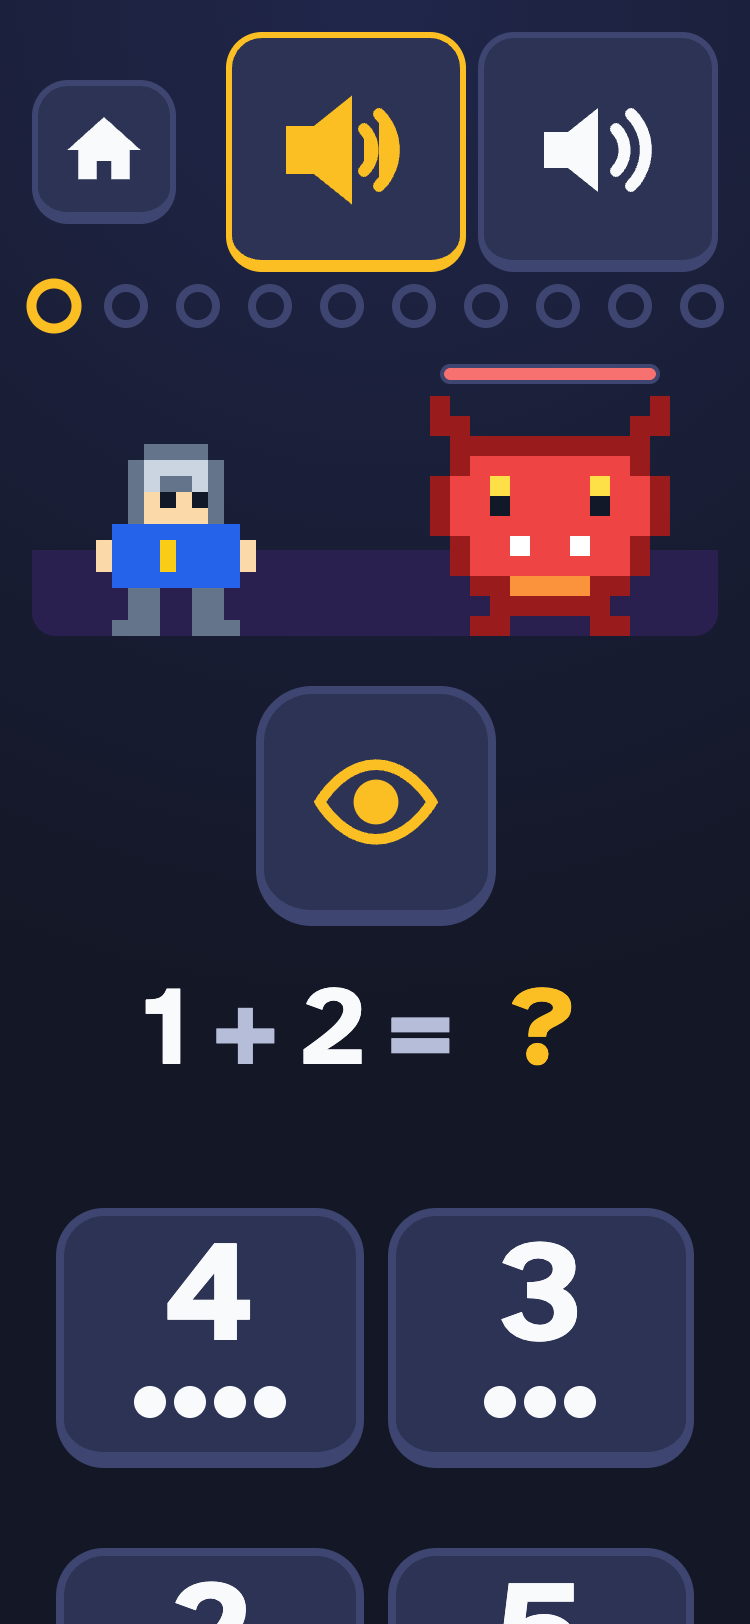
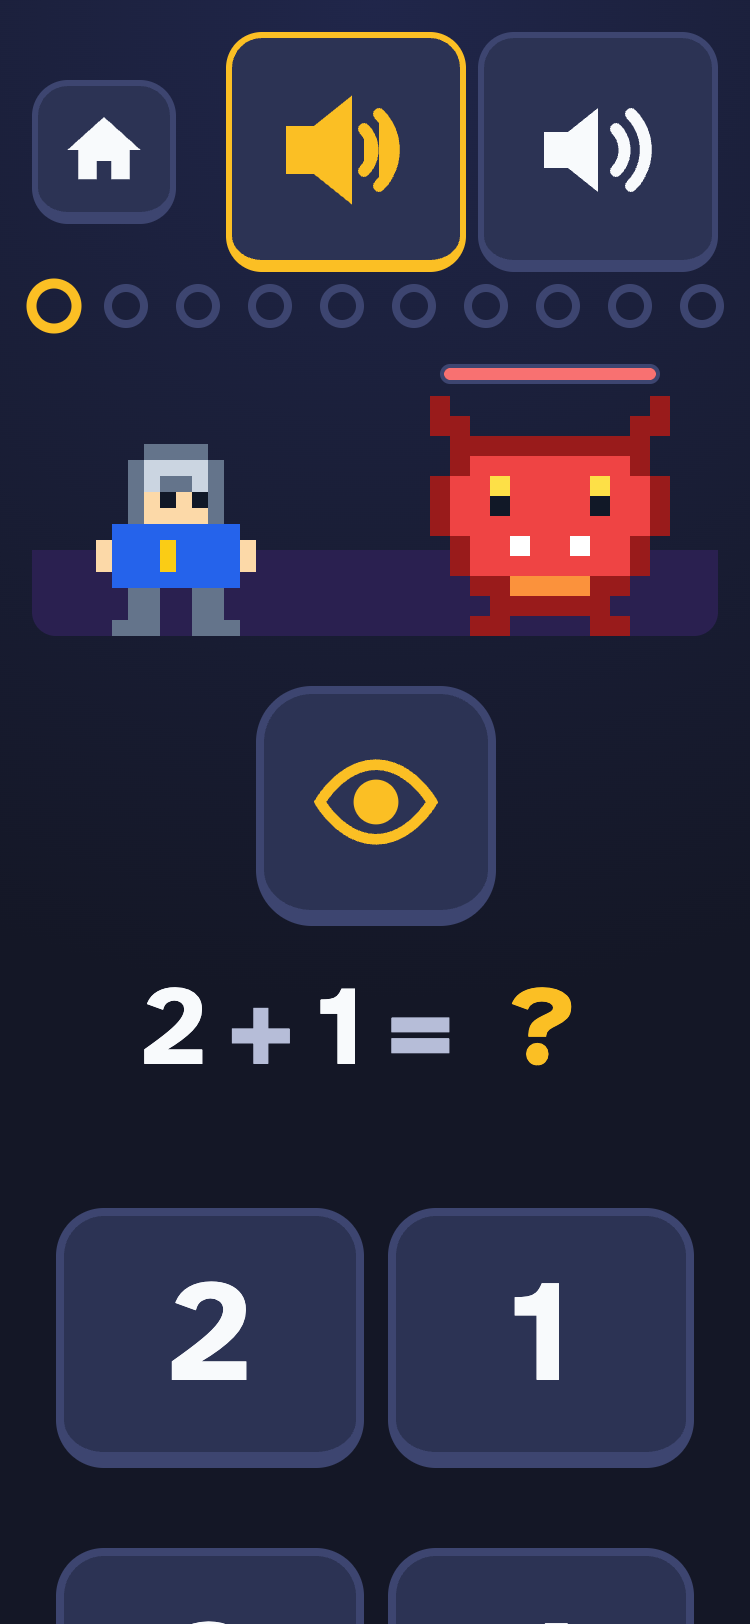
prereader-fade: choice buttons show dot patterns only while the fact is on dots

diff --git a/e2e/prereaderFade.e2e.ts b/e2e/prereaderFade.e2e.ts
@@ -91,6 +91,7 @@ for (const vp of TABLETS) {
     await expect(page.locator('.early-question')).toHaveAttribute('data-mode', 'groups');
     await expect(page.getByTestId('help')).toHaveCount(0);
     await bigEnough(page, '.choice', 4, vp.w);
+    await expect(page.locator('.choice-dot').first()).toBeVisible();
     const nums = await page.locator('.choice').evaluateAll((els) => els.map((e) => e.getAttribute('aria-label')));
     expect(new Set(nums).size).toBe(4);
     // All four in one row on a tablet.
@@ -109,6 +110,8 @@ for (const vp of TABLETS) {
     await expect(page.locator('.og-item')).toHaveCount(0);
     await bigEnough(page, '[data-testid="help"]', 1, vp.w);
     await bigEnough(page, '.choice', 4, vp.w);
+    // No dots on the buttons either: the numerals are all there is to match.
+    await expect(page.locator('.choice-dot')).toHaveCount(0);
     await shot(page, `support-numerals-${vp.w}x${vp.h}`);
     // First help: the strategy (count on from the bigger number).
     await page.getByTestId('help').click();
@@ -118,6 +121,7 @@ for (const vp of TABLETS) {
     // Second help: the full dots.
     await page.getByTestId('help').click();
     await expect(page.locator('.og-item')).toHaveCount(7);
+    await expect(page.locator('.choice-dot').first()).toBeVisible();
     await expect(page.getByTestId('help')).toHaveCount(0);
     await shot(page, `support-numerals-help-dots-${vp.w}x${vp.h}`);
   });

diff --git a/src/ui/early/ChoiceButtons.tsx b/src/ui/early/ChoiceButtons.tsx
@@ -7,6 +7,8 @@ interface Props {
   guide: boolean;
   picked: number | null;
   disabled: boolean;
+  /** Dot patterns under the numerals, so a kid can match a button by counting. Only a fact on dots shows them. */
+  dots: boolean;
   onChoose: (value: number) => void;
 }
 
@@ -25,8 +27,8 @@ function Dots({ n }: { n: number }) {
   );
 }
 
-/** Four big answer buttons, in a row on a tablet and 2 by 2 on a phone. Each shows the numeral and a dot pattern. */
-export function ChoiceButtons({ choices, answer, guide, picked, disabled, onChoose }: Props) {
+/** Four big answer buttons, in a row on a tablet and 2 by 2 on a phone. Each shows the numeral, and a dot pattern while the fact is on dots. */
+export function ChoiceButtons({ choices, answer, guide, picked, disabled, dots, onChoose }: Props) {
   return (
     <div className="choices" role="group" aria-label="Answers">
       {choices.map((v) => {
@@ -44,7 +46,7 @@ export function ChoiceButtons({ choices, answer, guide, picked, disabled, onChoo
               onClick={() => live && onChoose(v)}
             >
               <span className="choice-num">{v}</span>
-              <Dots n={v} />
+              {dots ? <Dots n={v} /> : null}
             </button>
           </div>
         );

diff --git a/src/game/QuestionPanel.tsx b/src/game/QuestionPanel.tsx
@@ -440,7 +440,7 @@ function PrereaderPanel({ runner, entry, kid, repo, onAnswered, onResolved, hand
       {usePad ? (
         <NumberPad max={CHOICE_MAX_PAD} value={typed} disabled={!!feedback} onKey={onKey} onClear={() => setTyped(null)} onOk={() => typed !== null && choose(typed)} />
       ) : (
-        <ChoiceButtons choices={choices!} answer={answer} guide={missed} picked={picked} disabled={solved} onChoose={choose} />
+        <ChoiceButtons choices={choices!} answer={answer} guide={missed} picked={picked} disabled={solved} dots={level === 'dots' || viewStep === 2 || missed} onChoose={choose} />
       )}
     </>
   );

diff --git a/src/ui/ShopMathCard.tsx b/src/ui/ShopMathCard.tsx
@@ -142,6 +142,7 @@ function ShopMathCard({ kid, repo, onGame, prompt, onClose }: Props & { prompt: 
               guide={phase === 'wrong'}
               picked={picked}
               disabled={false}
+              dots
               onChoose={(v) => {
                 setPicked(v);
                 void answer(v);
